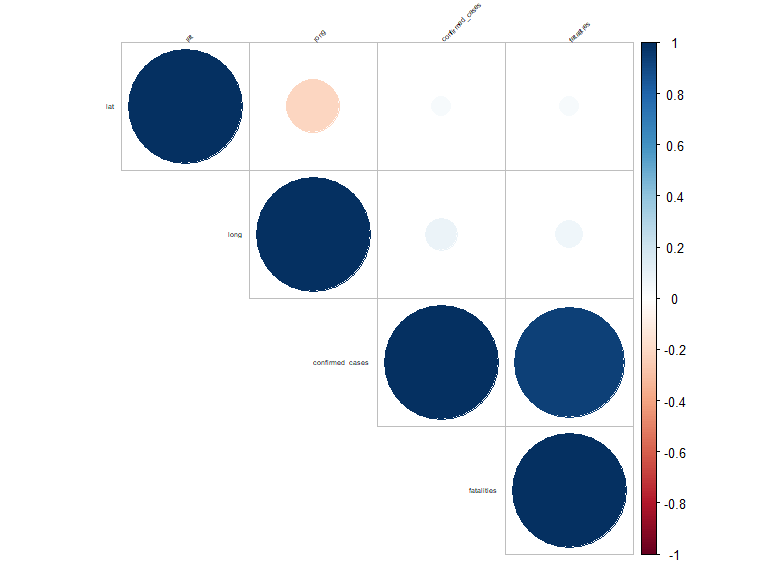
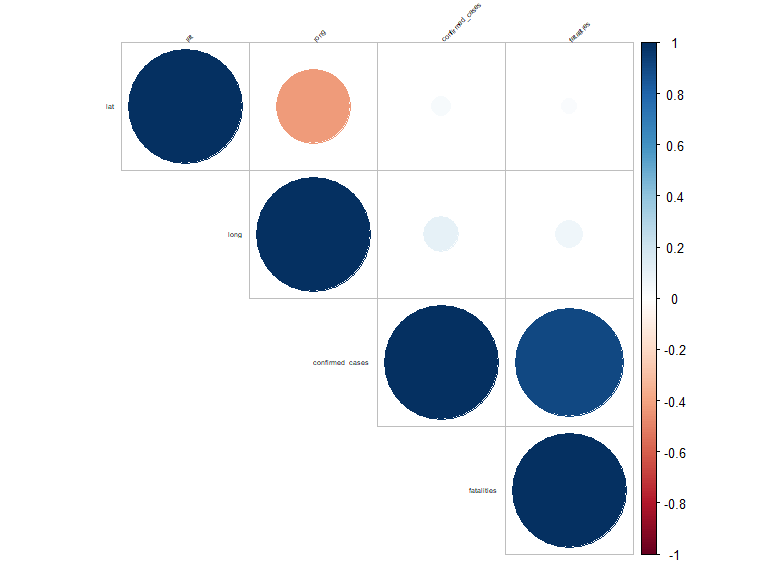
optimization algorithm attempts

Changed region(s): [[0.3438, 0.125, 0.4688, 0.25], [0.5625, 0.375, 0.5938, 0.4062]]

diff --git a/p8160_project3_jsg.md b/p8160_project3_jsg.md
@@ -4,7 +4,7 @@ Jared Garfinkel
 4/21/2020
 
 ``` r
-df = read_csv("./covid19-1.csv") %>% 
+df = read_csv("./covid_final.csv") %>% 
   janitor::clean_names() %>% 
   mutate(province_state = factor(province_state),
          country_region = factor(country_region),
@@ -13,26 +13,146 @@ df = read_csv("./covid19-1.csv") %>%
 
     ## Parsed with column specification:
     ## cols(
-    ##   Id = col_double(),
-    ##   `Province/State` = col_character(),
-    ##   `Country/Region` = col_character(),
-    ##   Lat = col_double(),
-    ##   Long = col_double(),
-    ##   Date = col_character(),
-    ##   ConfirmedCases = col_double(),
-    ##   Fatalities = col_double()
+    ##   province_state = col_character(),
+    ##   country_region = col_character(),
+    ##   lat = col_double(),
+    ##   long = col_double(),
+    ##   date = col_character(),
+    ##   confirmed_cases = col_double(),
+    ##   fatalities = col_double()
     ## )
 
 ``` r
 df_raw = df %>% 
-  dplyr::select(lat, long, confirmed_cases, fatalities)
+  dplyr::select(lat, long, confirmed_cases, fatalities) %>% 
+  drop_na()
 ```
 
 ``` r
 # correlation matrix
 res <- round(cor(df_raw) %>% as.matrix(), 2)
+
 corrplot(res, type = "upper", order = "hclust", 
          tl.col = "black", tl.srt = 45, tl.cex = 0.45)
 ```
 
 <img src="p8160_project3_jsg_files/figure-gfm/unnamed-chunk-2-1.png" width="90%" />
+
+``` r
+cor(df_raw)
+```
+
+    ##                         lat        long confirmed_cases fatalities
+    ## lat              1.00000000 -0.42909791      0.02585938 0.02401693
+    ## long            -0.42909791  1.00000000      0.09841674 0.05962983
+    ## confirmed_cases  0.02585938  0.09841674      1.00000000 0.90346925
+    ## fatalities       0.02401693  0.05962983      0.90346925 1.00000000
+
+``` r
+df_filtered = df %>% 
+  dplyr::select(everything(), confirmed_cases, -fatalities)
+
+y = df_filtered %>% 
+  pull(confirmed_cases)
+
+x = df_filtered %>% 
+  dplyr::select(province_state:date) %>% 
+  mutate(date = factor(date),
+         date = fct_inorder(date))
+
+dat = cbind(y, x)
+```
+
+``` r
+log_lik = function(cumsum = pull(dat, y), params = list(a = 1000, b = 2, c = 100)) {
+  dat %>% group_by(country_region, province_state)
+  t = 0
+  while (y > 0) {
+    t = t + 1
+  }
+  for (i in 1:n_distinct(pull(dat, country_region))) {
+    like[i] = params$a / (1 + exp(-params$b * (t - params$c)))
+    log_lik = log(like)
+    return(log_lik)
+}
+
+log_lik()
+```
+
+``` r
+# logistic function
+
+logistic_stuff = function(x = pull(dat, x), y = pull(dat, y), params = list(a = 1000, b = 2, c = 100), func = log_lik) {
+  dat %>% group_by(country_region, province_state)
+  t = 0
+  while (y > 0) {
+    t = t + 1
+  }
+  u = params$a / (1 + exp(-params$b * (t - params$c)))
+  expu = exp(u)
+  loglik = func(y, params)
+  p = expu/(1 + expu)
+  grad = rep(0, 3)
+  for (i in 1:length(grad)) {
+    grad[i] = sum(t(x[,i]) %*% (y - p))
+  }
+  return(grad)
+}
+  Hess <- matrix(0, length(grad), length(grad))
+  for (i in 1:nrow(X)) {
+    Hess = Hess - X[i,] %*% t(X[i,]) * p[i] * (1 - p[i])
+  }
+  return(list(loglik = loglik, grad = grad, Hess = Hess))
+}
+
+logistic_stuff()
+
+dat %>% 
+  group_by(country_region, province_state) %>% 
+  filter(confirmed_cases == 0)
+
+pull(dat, confirmed_cases)
+
+logistic_stuff()
+
+  u = params$a / (1 +  exp(-params$b * (t - params$c)))
+  
+}
+```
+
+## Clustering
+
+``` r
+int_slope_df <- int_slope_dat %>% 
+  nest(data = year:ppp) %>%
+  mutate(
+    models = map(data, ~lm(ppp ~ year, data = .x)),
+    result = map(models, broom::tidy)
+  ) %>% 
+  select(county, result) %>% 
+  unnest(result) %>% 
+  select(county, term, estimate) %>% 
+  pivot_wider(
+    names_from = term,
+    values_from = estimate
+  ) %>% 
+  rename(int = "(Intercept)", slope = year)
+# Cluster data by intercept and slope #
+km_fit = 
+  kmeans(
+    int_slope_df[,c(2,3)]  %>% scale, 
+    centers = 3)
+int_slope_df =
+  broom::augment(km_fit, int_slope_df)
+# Create a ggplot of the pills data #
+pills_plot <- left_join(int_slope_dat, int_slope_df) %>% 
+  group_by(county) %>% 
+  ggplot(aes(x = year, y = ppp, color = .cluster, text = county)) + 
+  geom_point() + 
+  geom_path() +
+  scale_x_continuous(breaks = c(0, 1, 2, 3, 4, 5, 6), labels = c("2006", "2007", "2008", "2009", "2010", "2011", "2012")) +
+  theme(legend.position = "none") +
+  xlab("Year") +
+  ylab("Pills Bought Per Person")
+ggplotly(pills_plot, tooltip = "text")
+```
